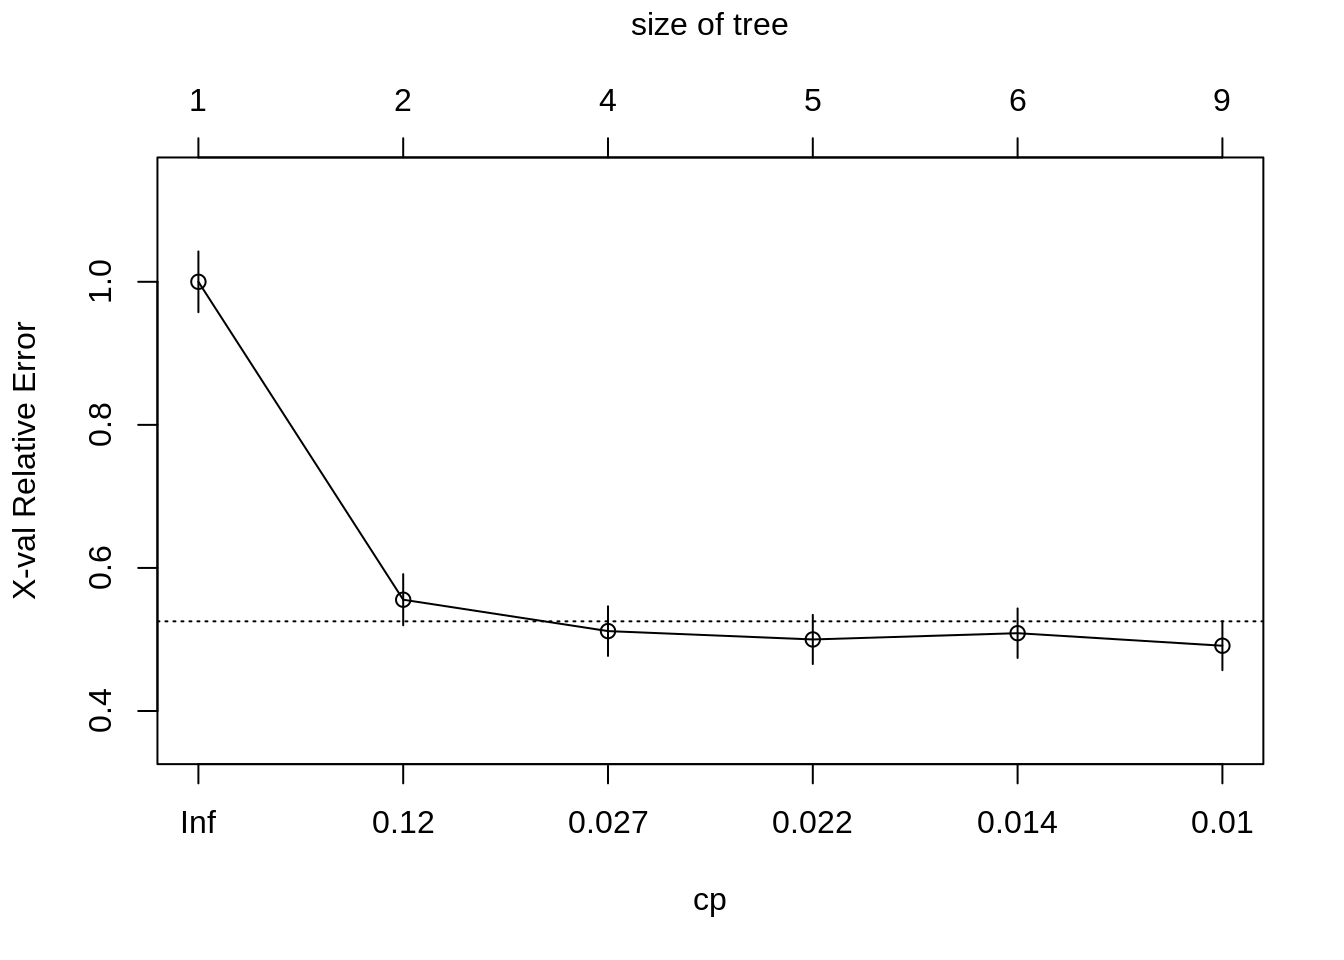
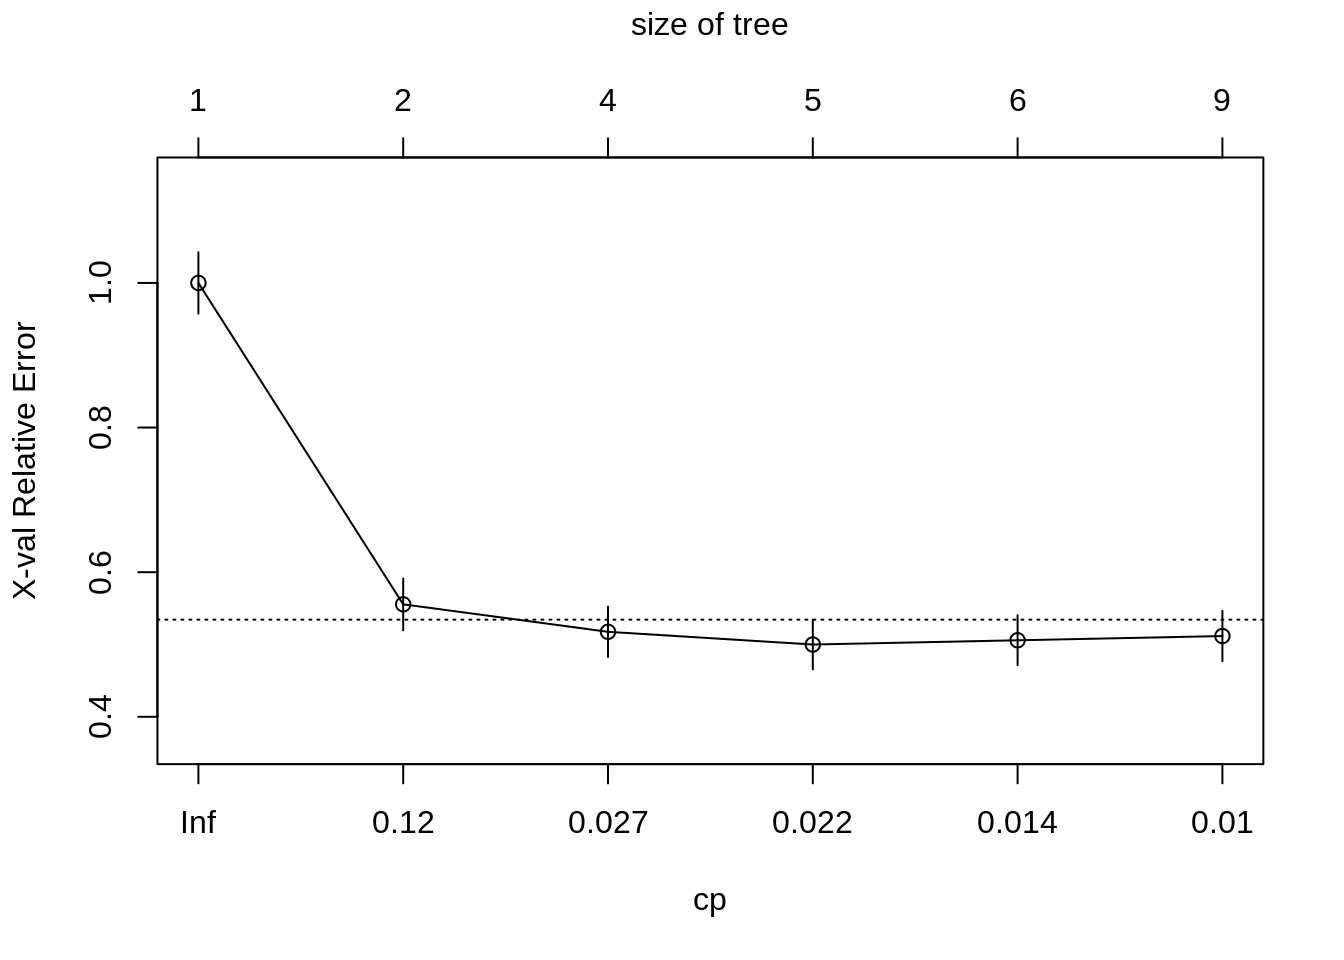
Deploy lebebr01/stat_thinking to github.com/lebebr01/stat_thinking.git:master

diff --git a/docs/classification.html b/docs/classification.html
@@ -324,10 +324,10 @@ titanic &lt;-<span class="st"> </span><span class="kw">bind_rows</span>(titanic_
 ##         CP nsplit rel error  xerror     xstd
 ## 1 0.444444      0   1.00000 1.00000 0.042446
 ## 2 0.030702      1   0.55556 0.55556 0.035750
-## 3 0.023392      3   0.49415 0.51170 0.034675
+## 3 0.023392      3   0.49415 0.51754 0.034823
 ## 4 0.020468      4   0.47076 0.50000 0.034372
-## 5 0.010234      5   0.45029 0.50877 0.034599
-## 6 0.010000      8   0.41813 0.49123 0.034140</code></pre>
+## 5 0.010234      5   0.45029 0.50585 0.034524
+## 6 0.010000      8   0.41813 0.51170 0.034675</code></pre>
 <div class="sourceCode"><pre class="sourceCode r"><code class="sourceCode r"><span class="kw">plotcp</span>(class_tree)</code></pre></div>
 <p><img src="05-classification_files/figure-html/unnamed-chunk-6-1.png" width="672" /></p>
 <div class="sourceCode"><pre class="sourceCode r"><code class="sourceCode r">prune_class_tree &lt;-<span class="st"> </span><span class="kw">prune</span>(class_tree, <span class="dt">cp =</span> .<span class="dv">02</span>)

diff --git a/docs/05-classification.md b/docs/05-classification.md
@@ -249,10 +249,10 @@ printcp(class_tree)
 ##         CP nsplit rel error  xerror     xstd
 ## 1 0.444444      0   1.00000 1.00000 0.042446
 ## 2 0.030702      1   0.55556 0.55556 0.035750
-## 3 0.023392      3   0.49415 0.51170 0.034675
+## 3 0.023392      3   0.49415 0.51754 0.034823
 ## 4 0.020468      4   0.47076 0.50000 0.034372
-## 5 0.010234      5   0.45029 0.50877 0.034599
-## 6 0.010000      8   0.41813 0.49123 0.034140
+## 5 0.010234      5   0.45029 0.50585 0.034524
+## 6 0.010000      8   0.41813 0.51170 0.034675
 ```
 
 ```r
